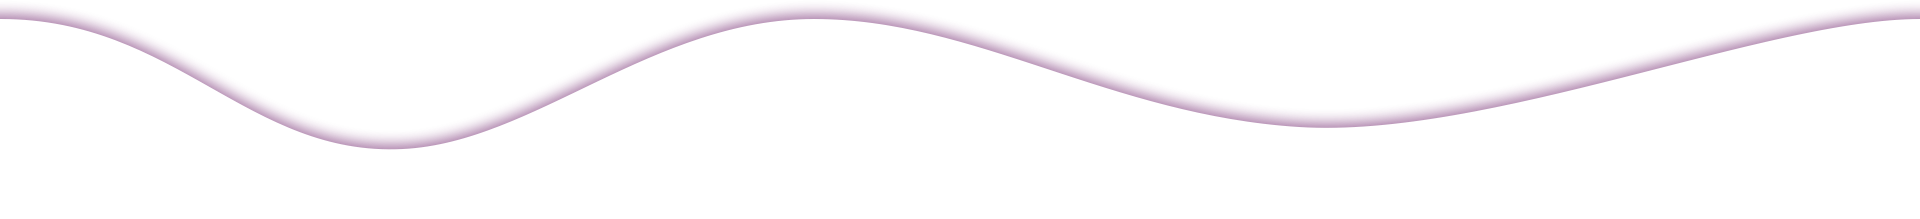
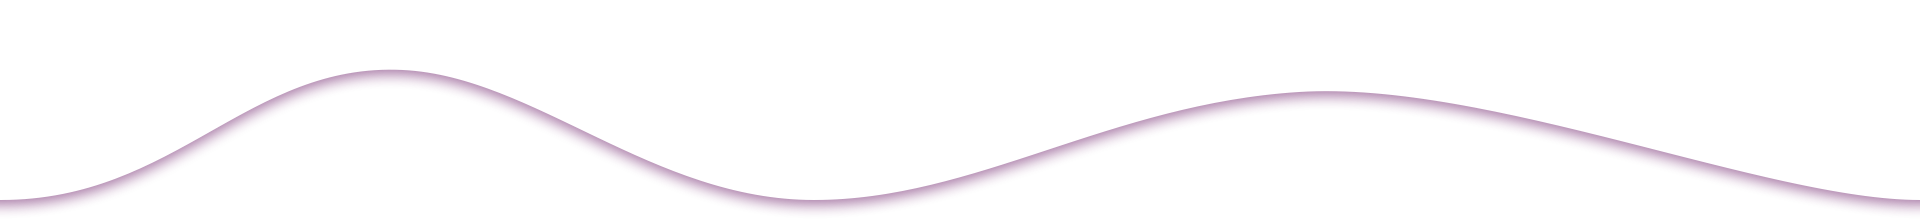
Update

Changed region(s): [[0.0, 0.0274, 1.0, 0.9863]]

diff --git a/index.html b/index.html
@@ -8,10 +8,21 @@
     <link rel="stylesheet" href="css/wave.css">
 
 
-
   </head>
 
   <body>
+    <div class="waveWrapper waveAnimation">
+      <div class="waveWrapperInner bgTop">
+        <div class="wave waveTop" style="background-image: url('http://front-end-noobs.com/jecko/img/wave-top.png')"></div>
+      </div>
+        <div class="waveWrapperInner bgMiddle">
+        <div class="wave waveMiddle" style="background-image: url('http://front-end-noobs.com/jecko/img/wave-mid.png')"></div>
+      </div>
+        <div class="waveWrapperInner bgBottom">
+        <div class="wave waveBottom" style="background-image: url('http://front-end-noobs.com/jecko/img/wave-bot.png')"></div>
+      </div>
+    </div>
+    
     <body class="depiction">
       <header>
         <h1>Stix | Private Repository</h1>
@@ -32,15 +43,4 @@
     </body>
     <script src="js/index.js"></script>
   </body>
-      <div class="waveWrapper waveAnimation">
-    <div class="waveWrapperInner bgTop">
-    <div class="wave waveTop" style="background-image: url('https://mrsmithx.github.io/web/wave-top.png')"></div>
-    </div>
-    <div class="waveWrapperInner bgMiddle">
-    <div class="wave waveMiddle" style="background-image: url('https://mrsmithx.github.io/web/wave-mid.png')"></div>
-    </div>
-    <div class="waveWrapperInner bgBottom">
-    <div class="wave waveBottom" style="background-image: url('https://mrsmithx.github.io/web/wave-bot.png')"></div>
-    </div>
-    </div>
 </html>

diff --git a/css/wave.css b/css/wave.css
@@ -22,7 +22,7 @@
     position: absolute;
     width: 100%;
     overflow: hidden;
-    height: 100%;
+    height: 65%;
     bottom: -1px;
     background-image: linear-gradient(to top, #86377b 20%, #27273c 80%);
 }
@@ -43,8 +43,8 @@
     width: 200%;
     height: 100%;
     background-repeat: repeat no-repeat;
-    background-position: 0 bottom;
-    transform-origin: center bottom;
+    background-position: 0 top;
+    transform-origin: center top;
 }
 .waveTop {
     background-size: 50% 100px;
